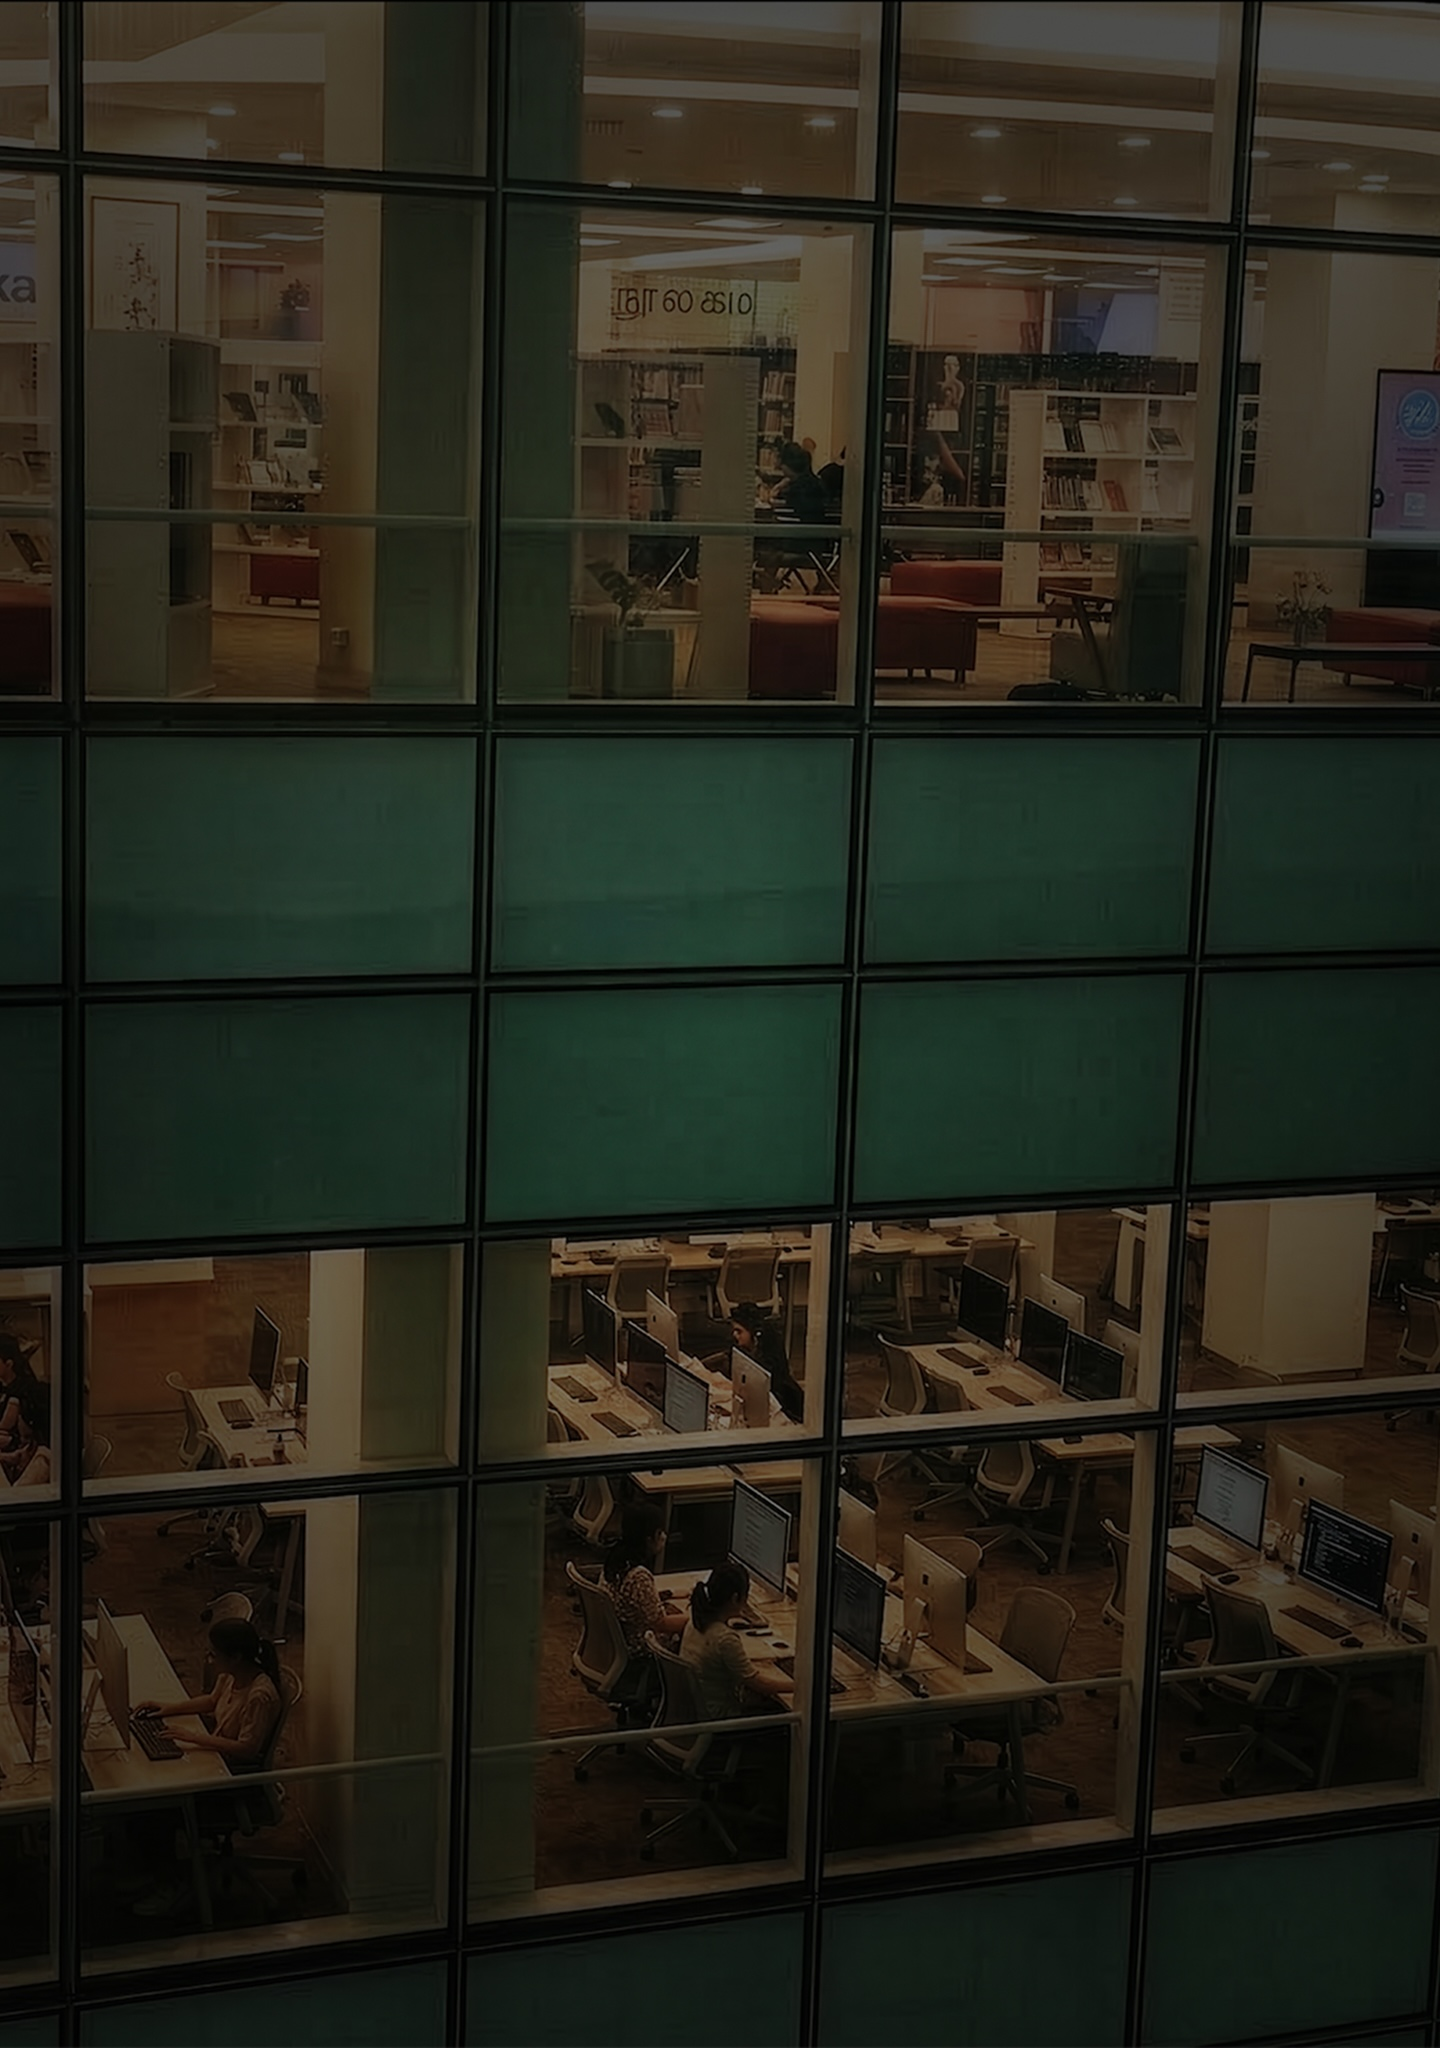
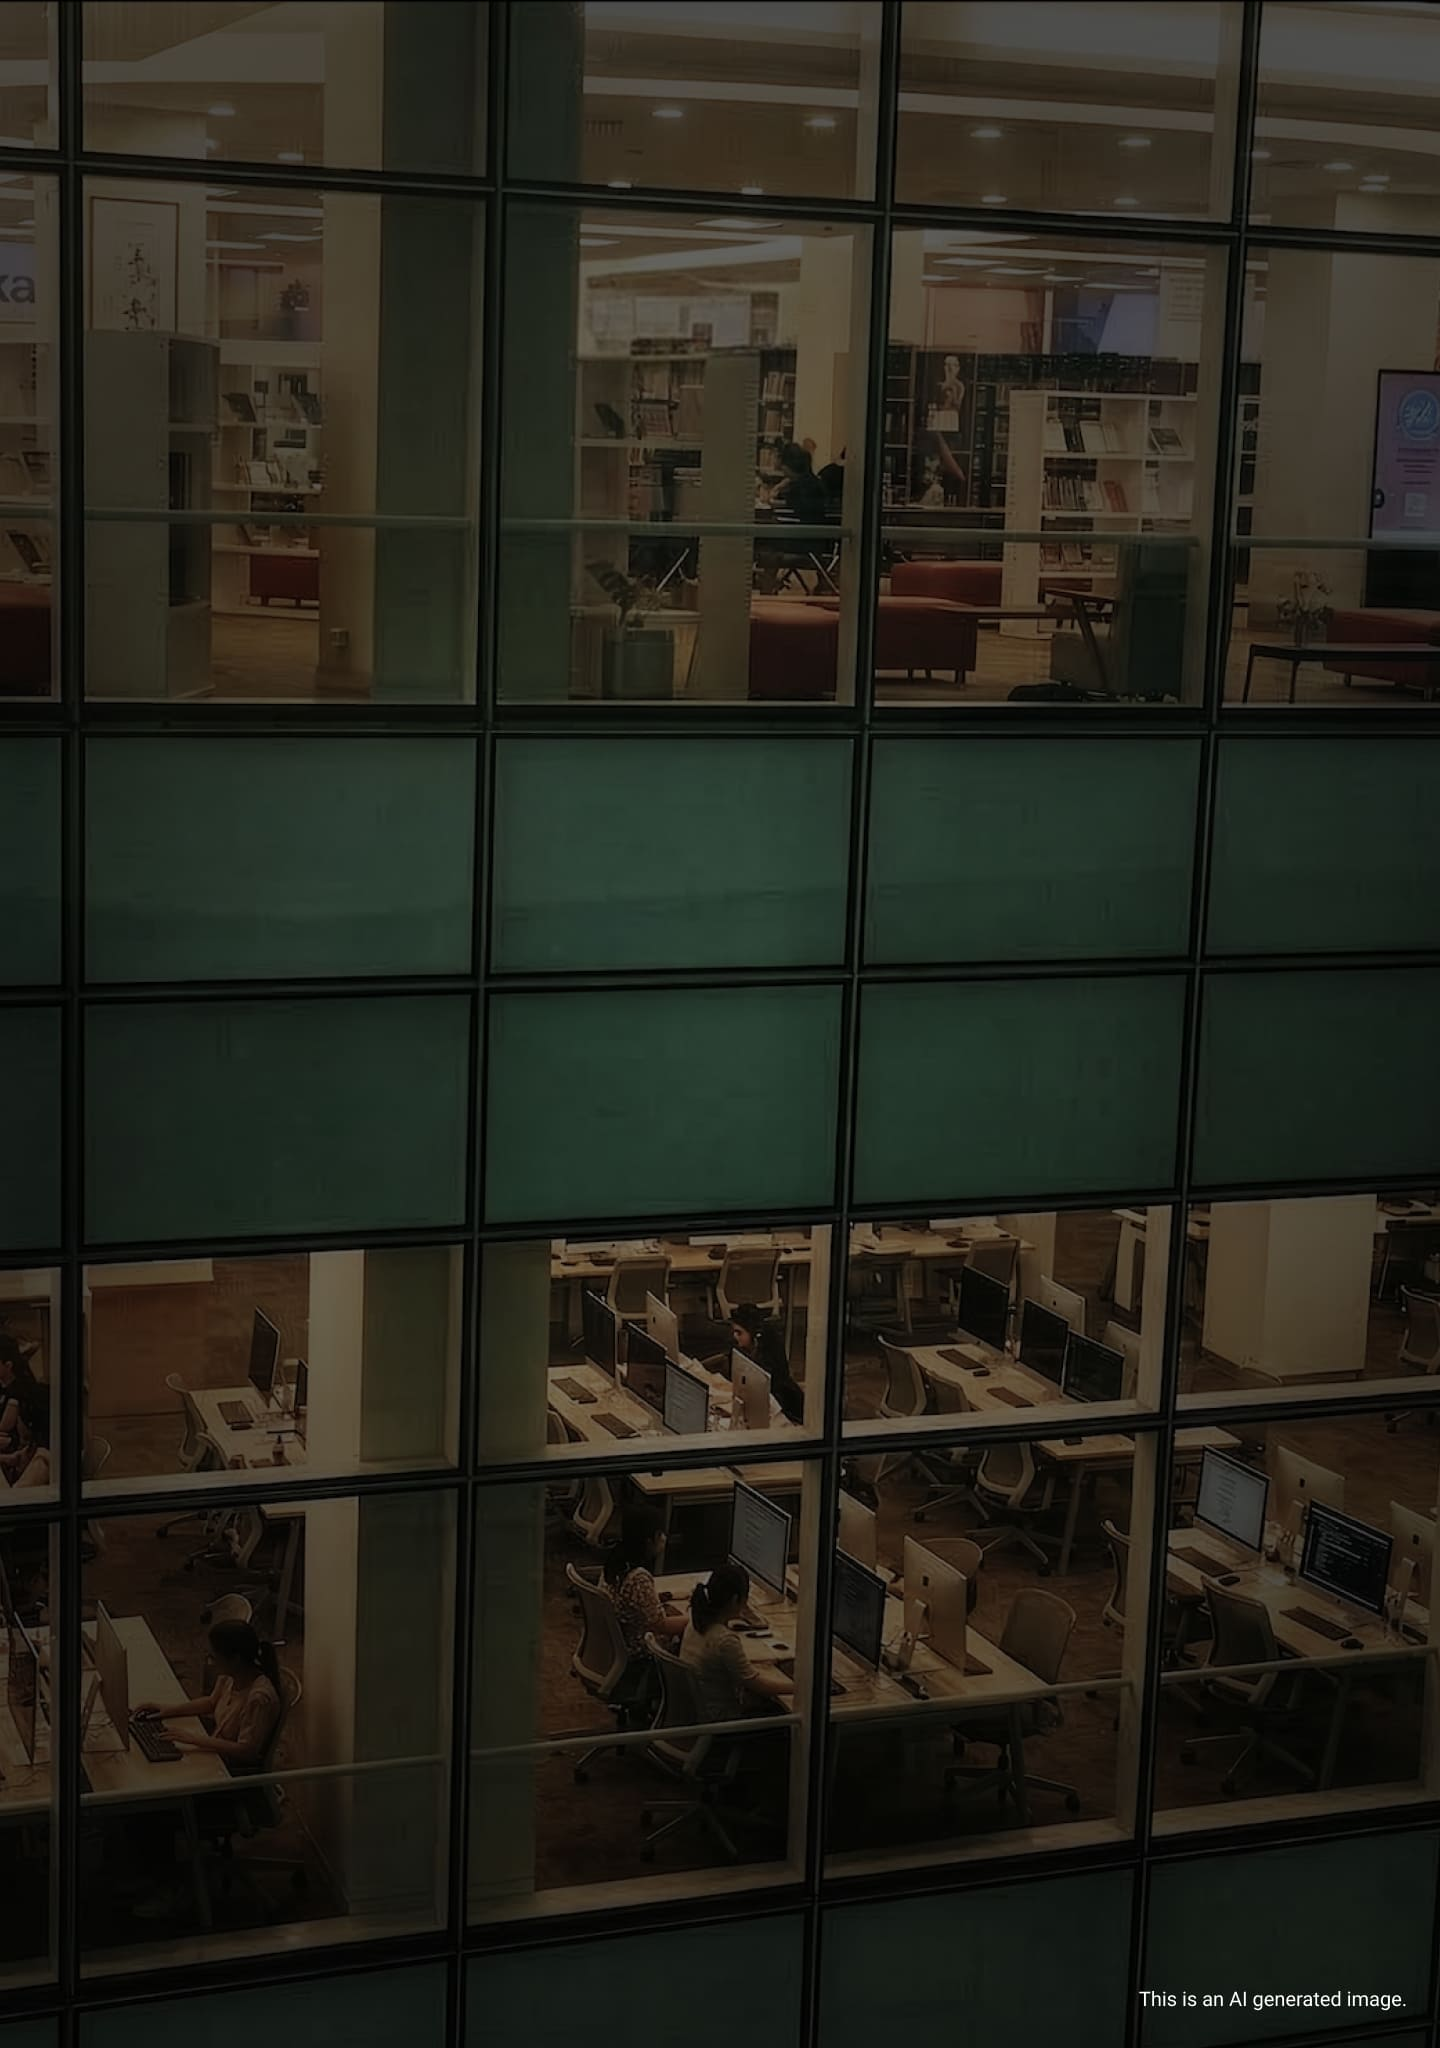
MDL-88225 admin: New login screen image
- Improved image and add an AI watermark

diff --git a/public/theme/boost/lib.php b/public/theme/boost/lib.php
@@ -57,15 +57,18 @@ function theme_boost_get_extra_scss($theme) {
 
     // Sets the login background image.
     $loginbackgroundimageurl = $theme->setting_file_url('loginbackgroundimage', 'loginbackgroundimage');
+    $backgroundposition = '';
     if (empty($loginbackgroundimageurl)) {
         // Use the default login background image.
         $loginbackgroundimageurl = $theme->image_url(
             'login_background',
             'theme',
         );
+        // Set the default background position to ensure the watermark is visible.
+        $backgroundposition = 'background-position: bottom right;';
     }
     $content .= 'body.pagelayout-login #page .login-layout-left { ';
-    $content .= "background-image: url('$loginbackgroundimageurl'); background-size: cover;";
+    $content .= "background-image: url('$loginbackgroundimageurl'); background-size: cover; {$backgroundposition}";
     $content .= ' }';
 
     // Always return the background image with the scss when we have it.

diff --git a/public/theme/classic/lib.php b/public/theme/classic/lib.php
@@ -108,15 +108,18 @@ function theme_classic_get_extra_scss($theme) {
 
     // Sets the login background image.
     $loginbackgroundimageurl = $theme->setting_file_url('loginbackgroundimage', 'loginbackgroundimage');
+    $backgroundposition = '';
     if (empty($loginbackgroundimageurl)) {
         // Use the default login background image.
         $loginbackgroundimageurl = $theme->image_url(
             'login_background',
             'theme',
         );
+        // Set the default background position to ensure the watermark is visible.
+        $backgroundposition = 'background-position: bottom right;';
     }
     $content .= 'body.pagelayout-login #page .login-layout-left { ';
-    $content .= "background-image: url('$loginbackgroundimageurl'); background-size: cover;";
+    $content .= "background-image: url('$loginbackgroundimageurl'); background-size: cover; {$backgroundposition}";
     $content .= ' }';
 
     if (!empty($theme->settings->navbardark)) {
